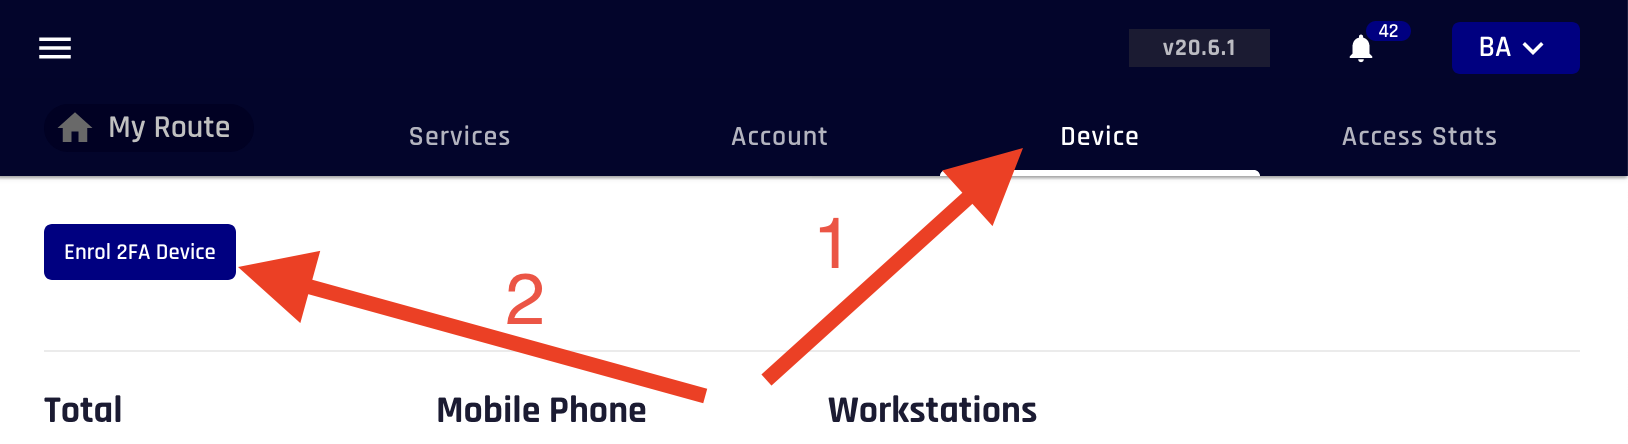
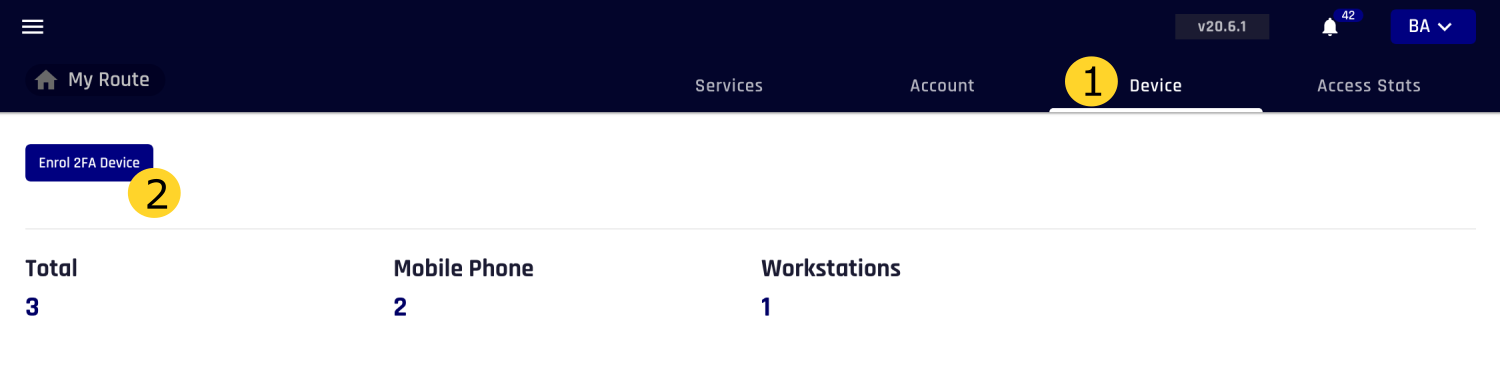
fix: [website] changed user guide screenshots

diff --git a/website/docs/guides/user/device/enrol-2fa-device.md b/website/docs/guides/user/device/enrol-2fa-device.md
@@ -20,8 +20,11 @@ If you want to enroll a new device,
 * Enter credentials and authenticate the second factor
 * You will be shown a QR Code.
 <img  alt="qr-code" src={('/img/docs/user-guides/device/qr-code.png')} />
-* Open TRASA mobile app and click on + sign on the bottom right   
+* Open TRASA mobile app and press the + button on the bottom right and then press the QR icon.
 
-<img width="20%" alt="mobile-app-add-qr" src={('/img/docs/quickstart/mobile-app-add-qr.png')} />  
+<img alt="enrol device" src={('/img/docs/tutorial/enrol-mobile-device.svg')} />
 
-* Click the QR icon and scan the QR code on your browser
+* Scan the QR code on the browser.
+* If everything goes well, you will see the following icon on your app.
+
+<img alt="enrol device" src={('/img/docs/tutorial/device-enroled.svg')} />
